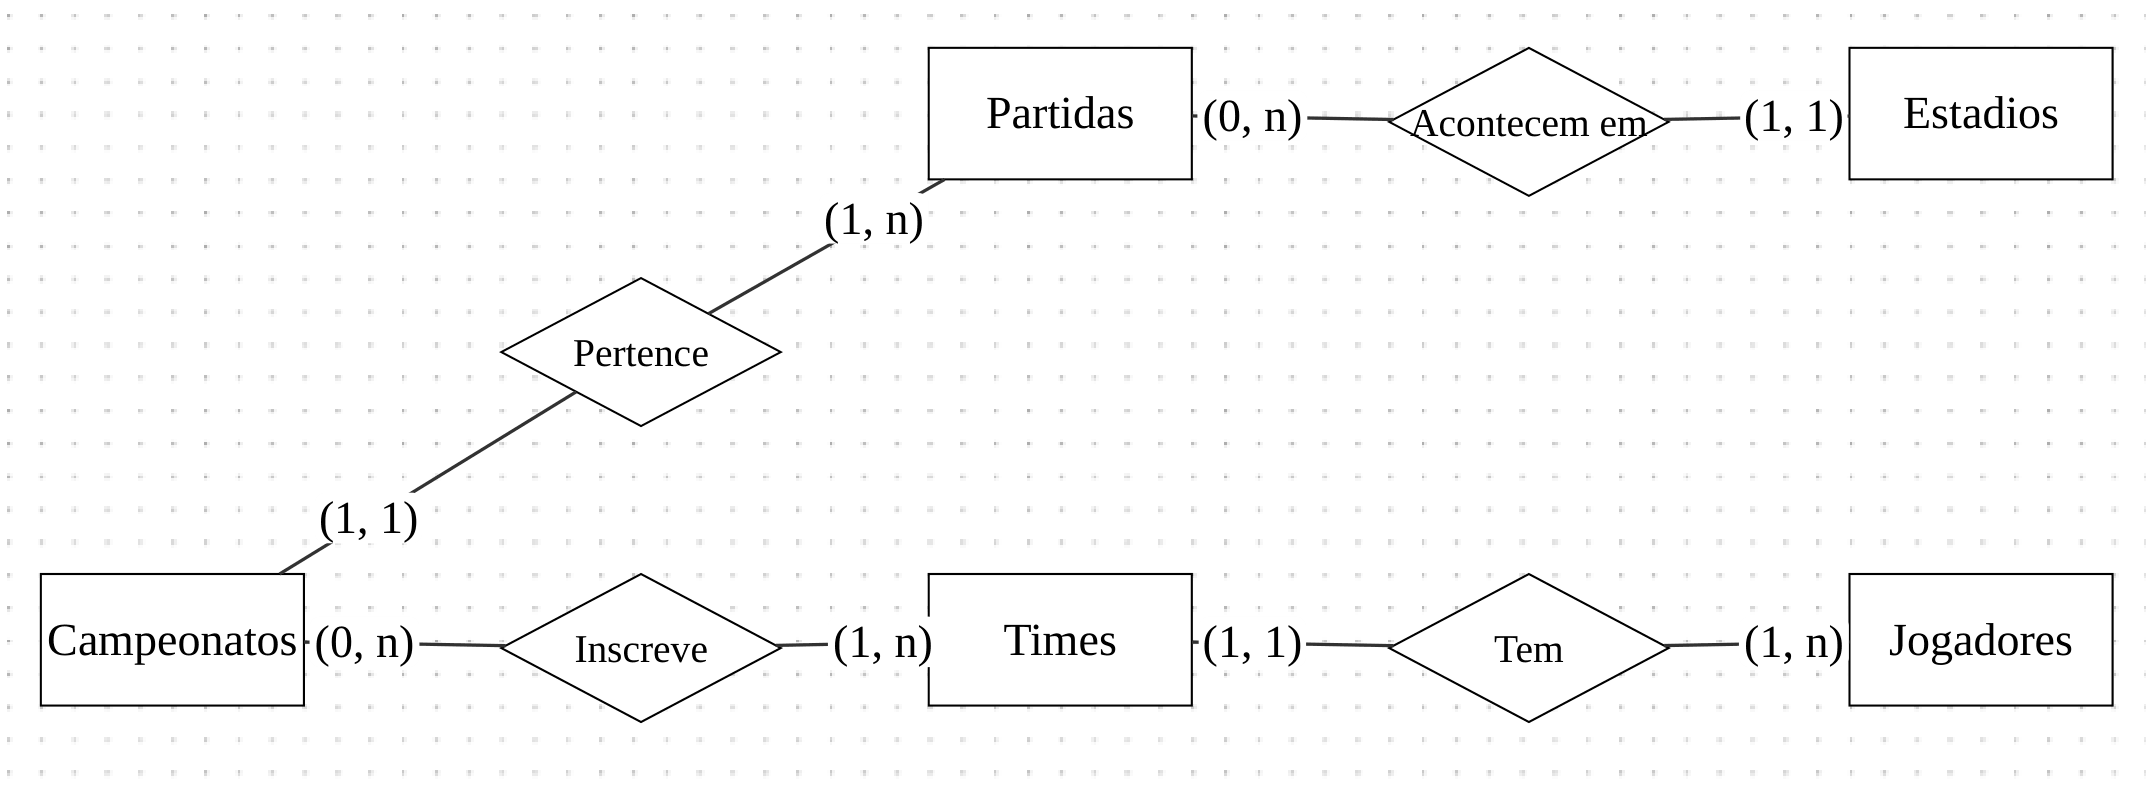
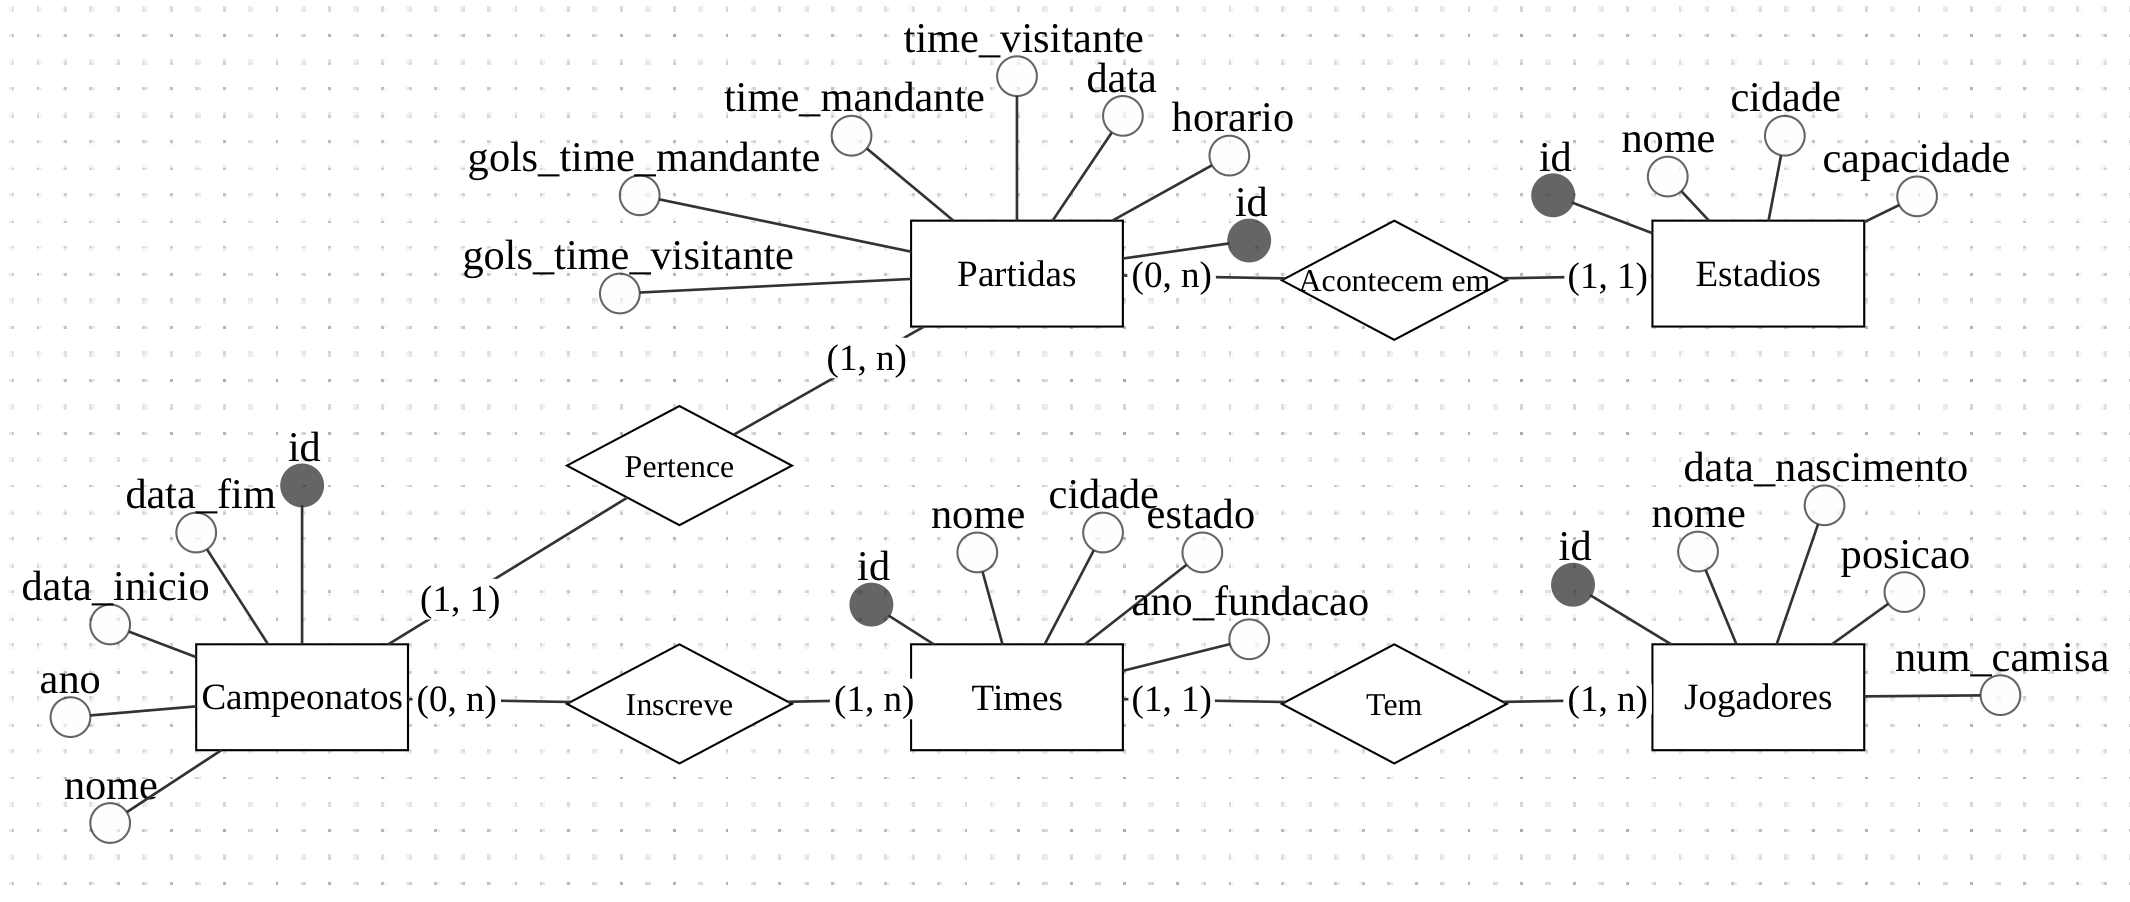
make sql scripts

diff --git a/README.md b/README.md
@@ -10,7 +10,12 @@ Esse projeto cria e configura umas estrutura de banco de dados para um sistema d
 ![MER](docs/MER%20-%20Campeonatos%20de%20Futebol.png)
 
 # Tabelas
-Liste as tabelas criadas.
+- Campeonatos
+- Times
+- Inscricao
+- Partidas
+- Estadios
+- Jogadores
 
 # Tecnologias utilizadas
 - PostgreSQL
@@ -19,5 +24,5 @@ Liste as tabelas criadas.
 - GitHub
 
 # Evidências
-Criação do banco
+Criação do banco  
 ![Criacao banco](evidencias/criacao_banco.png)
